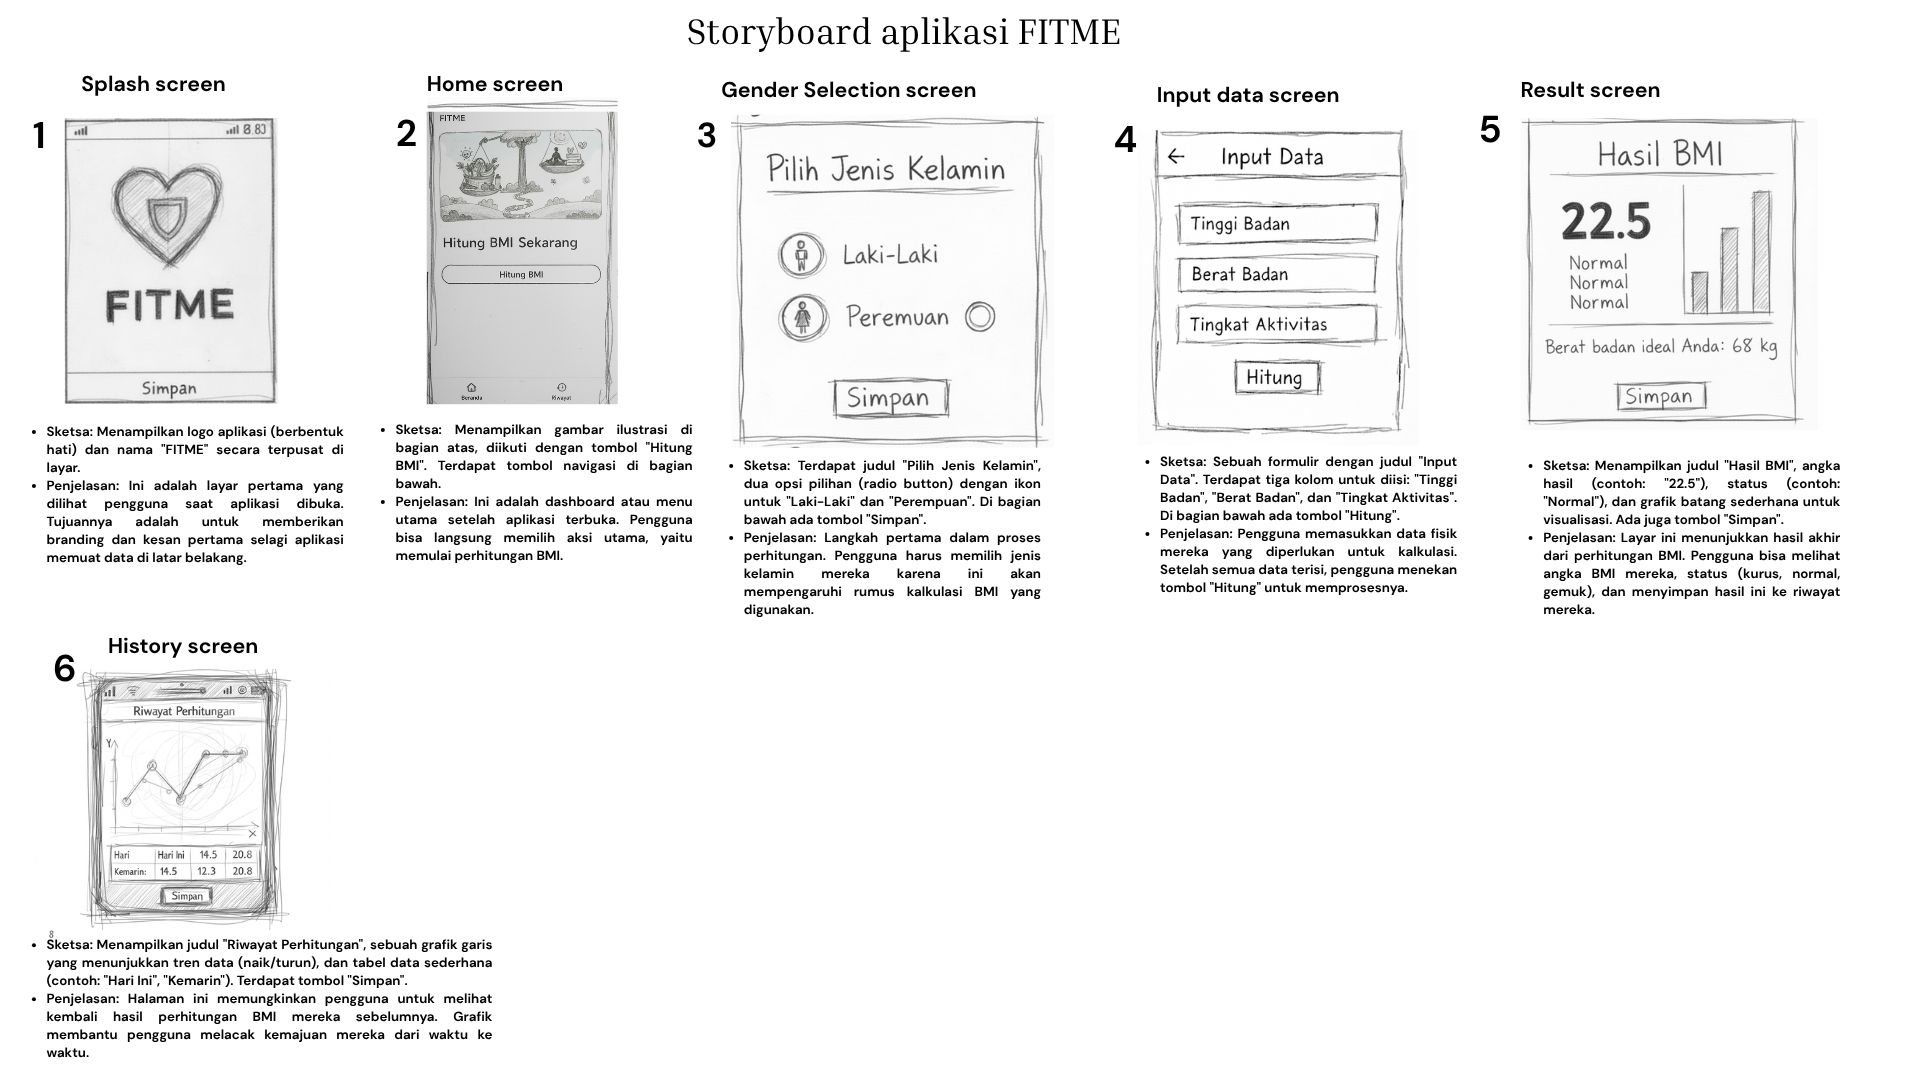
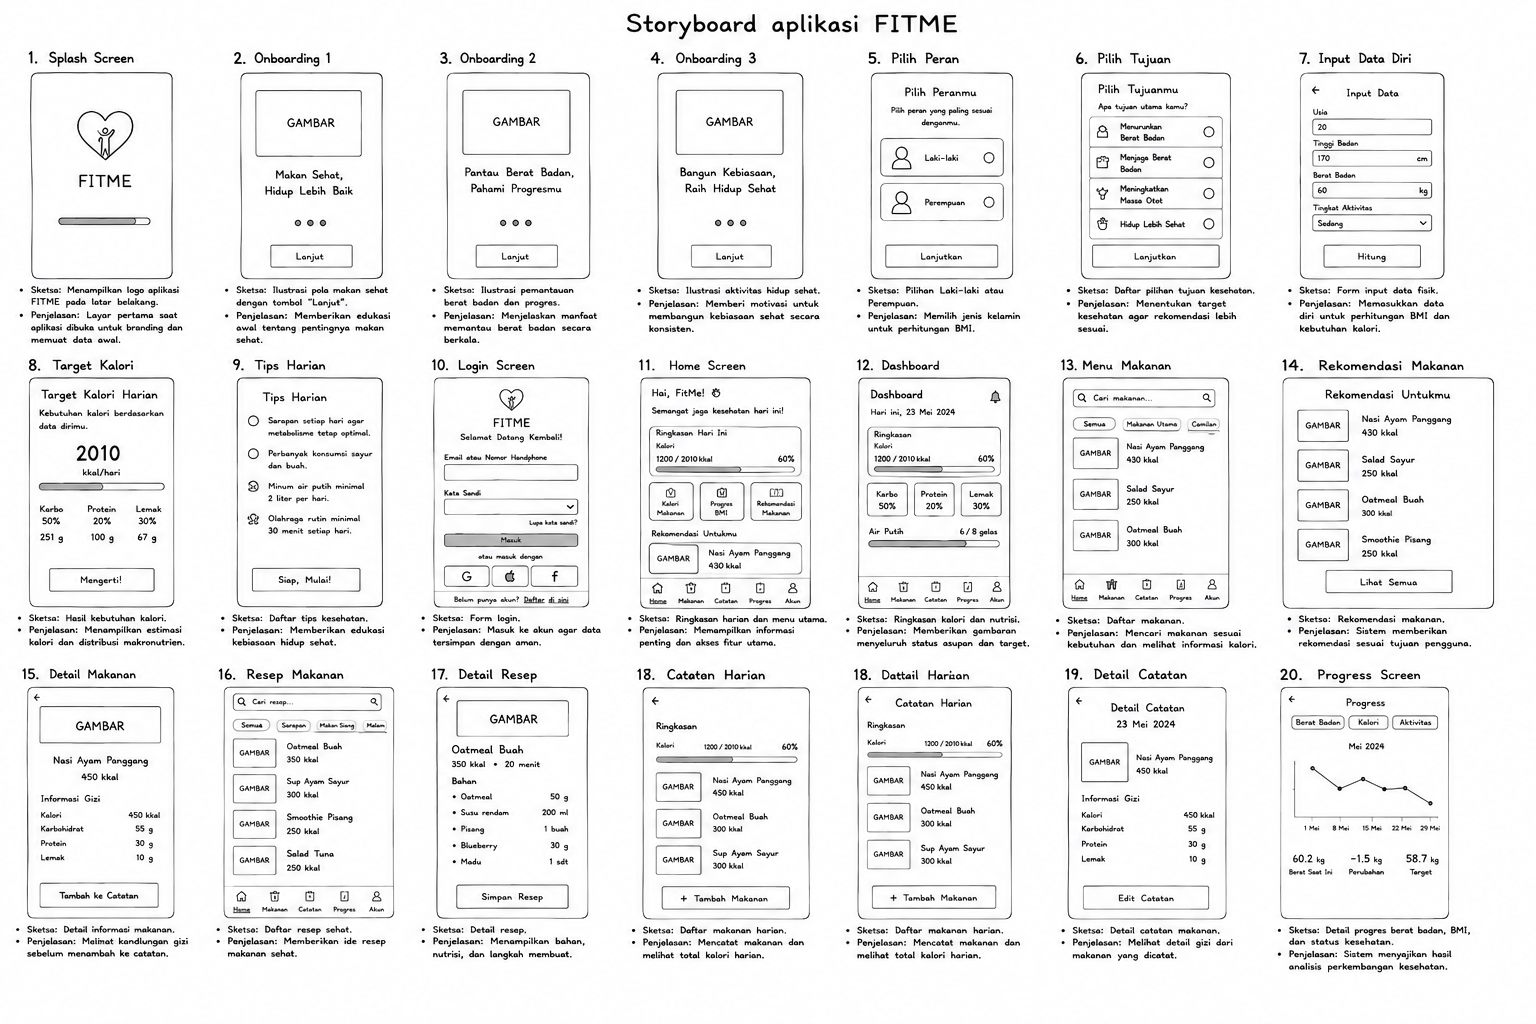
docs: replace old images with new photos from downloads

diff --git a/README.md b/README.md
@@ -34,7 +34,7 @@
 *(Deteksi location, Bendera, Say Hello/Selamat Datang sesuai lokasi daerah masing-masing)*
 
 <div align="center">
-  <img src="FOTO%20PROJECT/Screenshot%202026-01-12%20153656.png" alt="Splash Screen" width="300">
+  <img src="FOTO%20PROJECT/CP.png" alt="Splash Screen" width="300">
 </div>
 
 ---
@@ -83,7 +83,7 @@
 ## 3. Mockup Project
 
 <div align="center">
-  <img src="FOTO%20PROJECT/Screenshot%202025-12-19%20002725.png" alt="Mockup Project" width="800">
+  <img src="FOTO%20PROJECT/Mockup.png" alt="Mockup Project" width="800">
 </div>
 
 ---
@@ -91,8 +91,7 @@
 ## 4. UI (User Interface) Project
 
 <div align="center">
-  <img src="FOTO%20PROJECT/Screenshot%202025-12-19%20003935.png" alt="UI Project 1" width="400">
-  <img src="FOTO%20PROJECT/e51c9953-e50d-4bf4-8512-7d1d7e2e4a21.png" alt="UI Project 2" width="400">
+  <img src="FOTO%20PROJECT/UI.png" alt="UI Project" width="800">
 </div>
 
 ---
